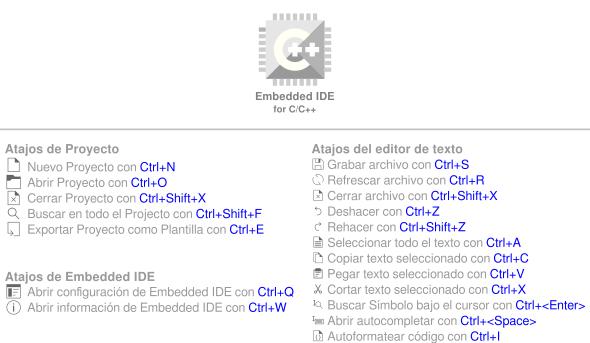
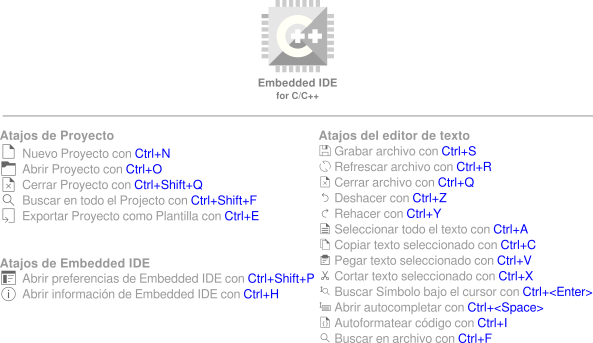
Shortcuts: Fix collitions and complete requireds.
This closes #26

Changed region(s): [[0.0, 0.0, 1.0, 1.0]]

diff --git a/ide/src/codeeditor.cpp b/ide/src/codeeditor.cpp
@@ -102,20 +102,19 @@ CodeEditor::CodeEditor(QWidget *parent) :
     replaceDialog = new FormFindReplace(this);
     replaceDialog->hide();
 
-    auto findAction = new QAction(this);
-    findAction->setShortcut(QKeySequence("ctrl+f"));
-    connect(findAction, &QAction::triggered, replaceDialog, &FormFindReplace::show);
-    addAction(findAction);
+#define SHCUT(keycode, ptr, method) do { \
+        auto acc = new QAction(this); \
+        acc->setShortcut(QKeySequence(keycode)); \
+        connect(acc, &QAction::triggered, ptr, method); \
+        addAction(acc); \
+    } while(0)
+    SHCUT("ctrl+return", this, &CodeEditor::findTagUnderCursor);
+    SHCUT("ctrl+f", replaceDialog, &FormFindReplace::show);
+    SHCUT("ctrl+i", this, &CodeEditor::formatSelection);
+    SHCUT("ctrl+s", this, &CodeEditor::save);
+    SHCUT("ctrl+r", this, &CodeEditor::reload);
+#undef SHCUT
 
-    auto formatAction = new QAction(this);
-    formatAction->setShortcut(QKeySequence("ctrl+i"));
-    connect(formatAction, &QAction::triggered, this, &CodeEditor::formatSelection);
-    addAction(formatAction);
-
-    auto saveAction = new QAction(this);
-    saveAction->setShortcut(QKeySequence("ctrl+s"));
-    connect(saveAction, &QAction::triggered, this, &CodeEditor::save);
-    addAction(saveAction);
     connect(this, &QsciScintilla::marginClicked,
             [this](int margin, int line, Qt::KeyboardModifiers state){
         Q_UNUSED(margin);

diff --git a/ide/src/mainwindow.cpp b/ide/src/mainwindow.cpp
@@ -209,19 +209,19 @@ MainWindow::MainWindow(QWidget *parent) :
 
     ui->debugDocker->hide();
 
-#define _(shortcut, method) do { \
+#define SHCUT(shortcut, method) do { \
         auto tmp = new QShortcut(QKeySequence(shortcut), this); \
         tmp->setContext(Qt::ApplicationShortcut); \
         connect(tmp, &QShortcut::activated, this, method); \
     } while(0)
-    _("CTRL+N", &MainWindow::projectNew);
-    _("CTRL+O", &MainWindow::projectOpen);
-    _("CTRL+SHIFT+X", &MainWindow::projectClose);
-    _("CTRL+SHIFT+F", &MainWindow::on_projectView_openFindDialog);
-    _("CTRL+E", &MainWindow::projectExport);
-    _("CTRL+Q", &MainWindow::configureShow);
-    _("CTRL+W", &MainWindow::helpShow);
-#undef _
+    SHCUT("CTRL+N", &MainWindow::projectNew);
+    SHCUT("CTRL+O", &MainWindow::projectOpen);
+    SHCUT("CTRL+SHIFT+Q", &MainWindow::projectClose);
+    SHCUT("CTRL+SHIFT+F", &MainWindow::on_projectView_openFindDialog);
+    SHCUT("CTRL+E", &MainWindow::projectExport);
+    SHCUT("CTRL+SHIFT+P", &MainWindow::configureShow);
+    SHCUT("CTRL+H", &MainWindow::helpShow);
+#undef SHCUT
 
     configChanged(&AppConfig::mutableInstance());
     statusBar()->showMessage(tr("Application ready..."), 1500);

diff --git a/ide/src/clangcodecontext.cpp b/ide/src/clangcodecontext.cpp
@@ -21,7 +21,7 @@ CLangCodeContext::CLangCodeContext(CodeEditor *parent) : QObject(parent), ed(par
     connect(clangProc, SIGNAL(finished(int)), this, SLOT(clangTerminated()));
     connect(ed, SIGNAL(updateCodeContext()), this, SLOT(startContextUpdate()));
     connect(this, SIGNAL(completionListUpdate(QStringList)), ed, SLOT(codeContextUpdate(QStringList)));
-    connect(this, SIGNAL(discoverCompleted(QStringList,QStringList)), ed, SLOT(discoverCompletion(QStringList,QStringList)));
+    // connect(this, SIGNAL(discoverCompleted(QStringList,QStringList)), ed, SLOT(discoverCompletion(QStringList,QStringList)));
 }
 
 CLangCodeContext::~CLangCodeContext()

diff --git a/ide/src/documentarea.cpp b/ide/src/documentarea.cpp
@@ -31,6 +31,10 @@ DocumentArea::DocumentArea(QWidget *parent) :
                  addActionToRightCorner(QIcon(":/images/document-close-all.svg"), tr("Close All"), this, SLOT(closeAll()))
              });
     auto actionsEnable = [actions](bool en) { for(auto a: actions) a->setEnabled(en); };
+
+    auto s = new QShortcut(QKeySequence("CTRL+Q"), this);
+    s->setContext(Qt::ApplicationShortcut);
+    connect(s, &QShortcut::activated, this, &DocumentArea::closeCurrent);
 #if 0
     auto *prev = actions[0];
     auto *next = actions[1];

diff --git a/ide/src/main.cpp b/ide/src/main.cpp
@@ -25,6 +25,7 @@
 
 #ifdef Q_OS_LINUX
 #include <stdlib.h>
+#include <unistd.h>
 #define HARD_CONF_PATH "../share/embedded-ide/embedded-ide.hardconf"
 #endif
 
